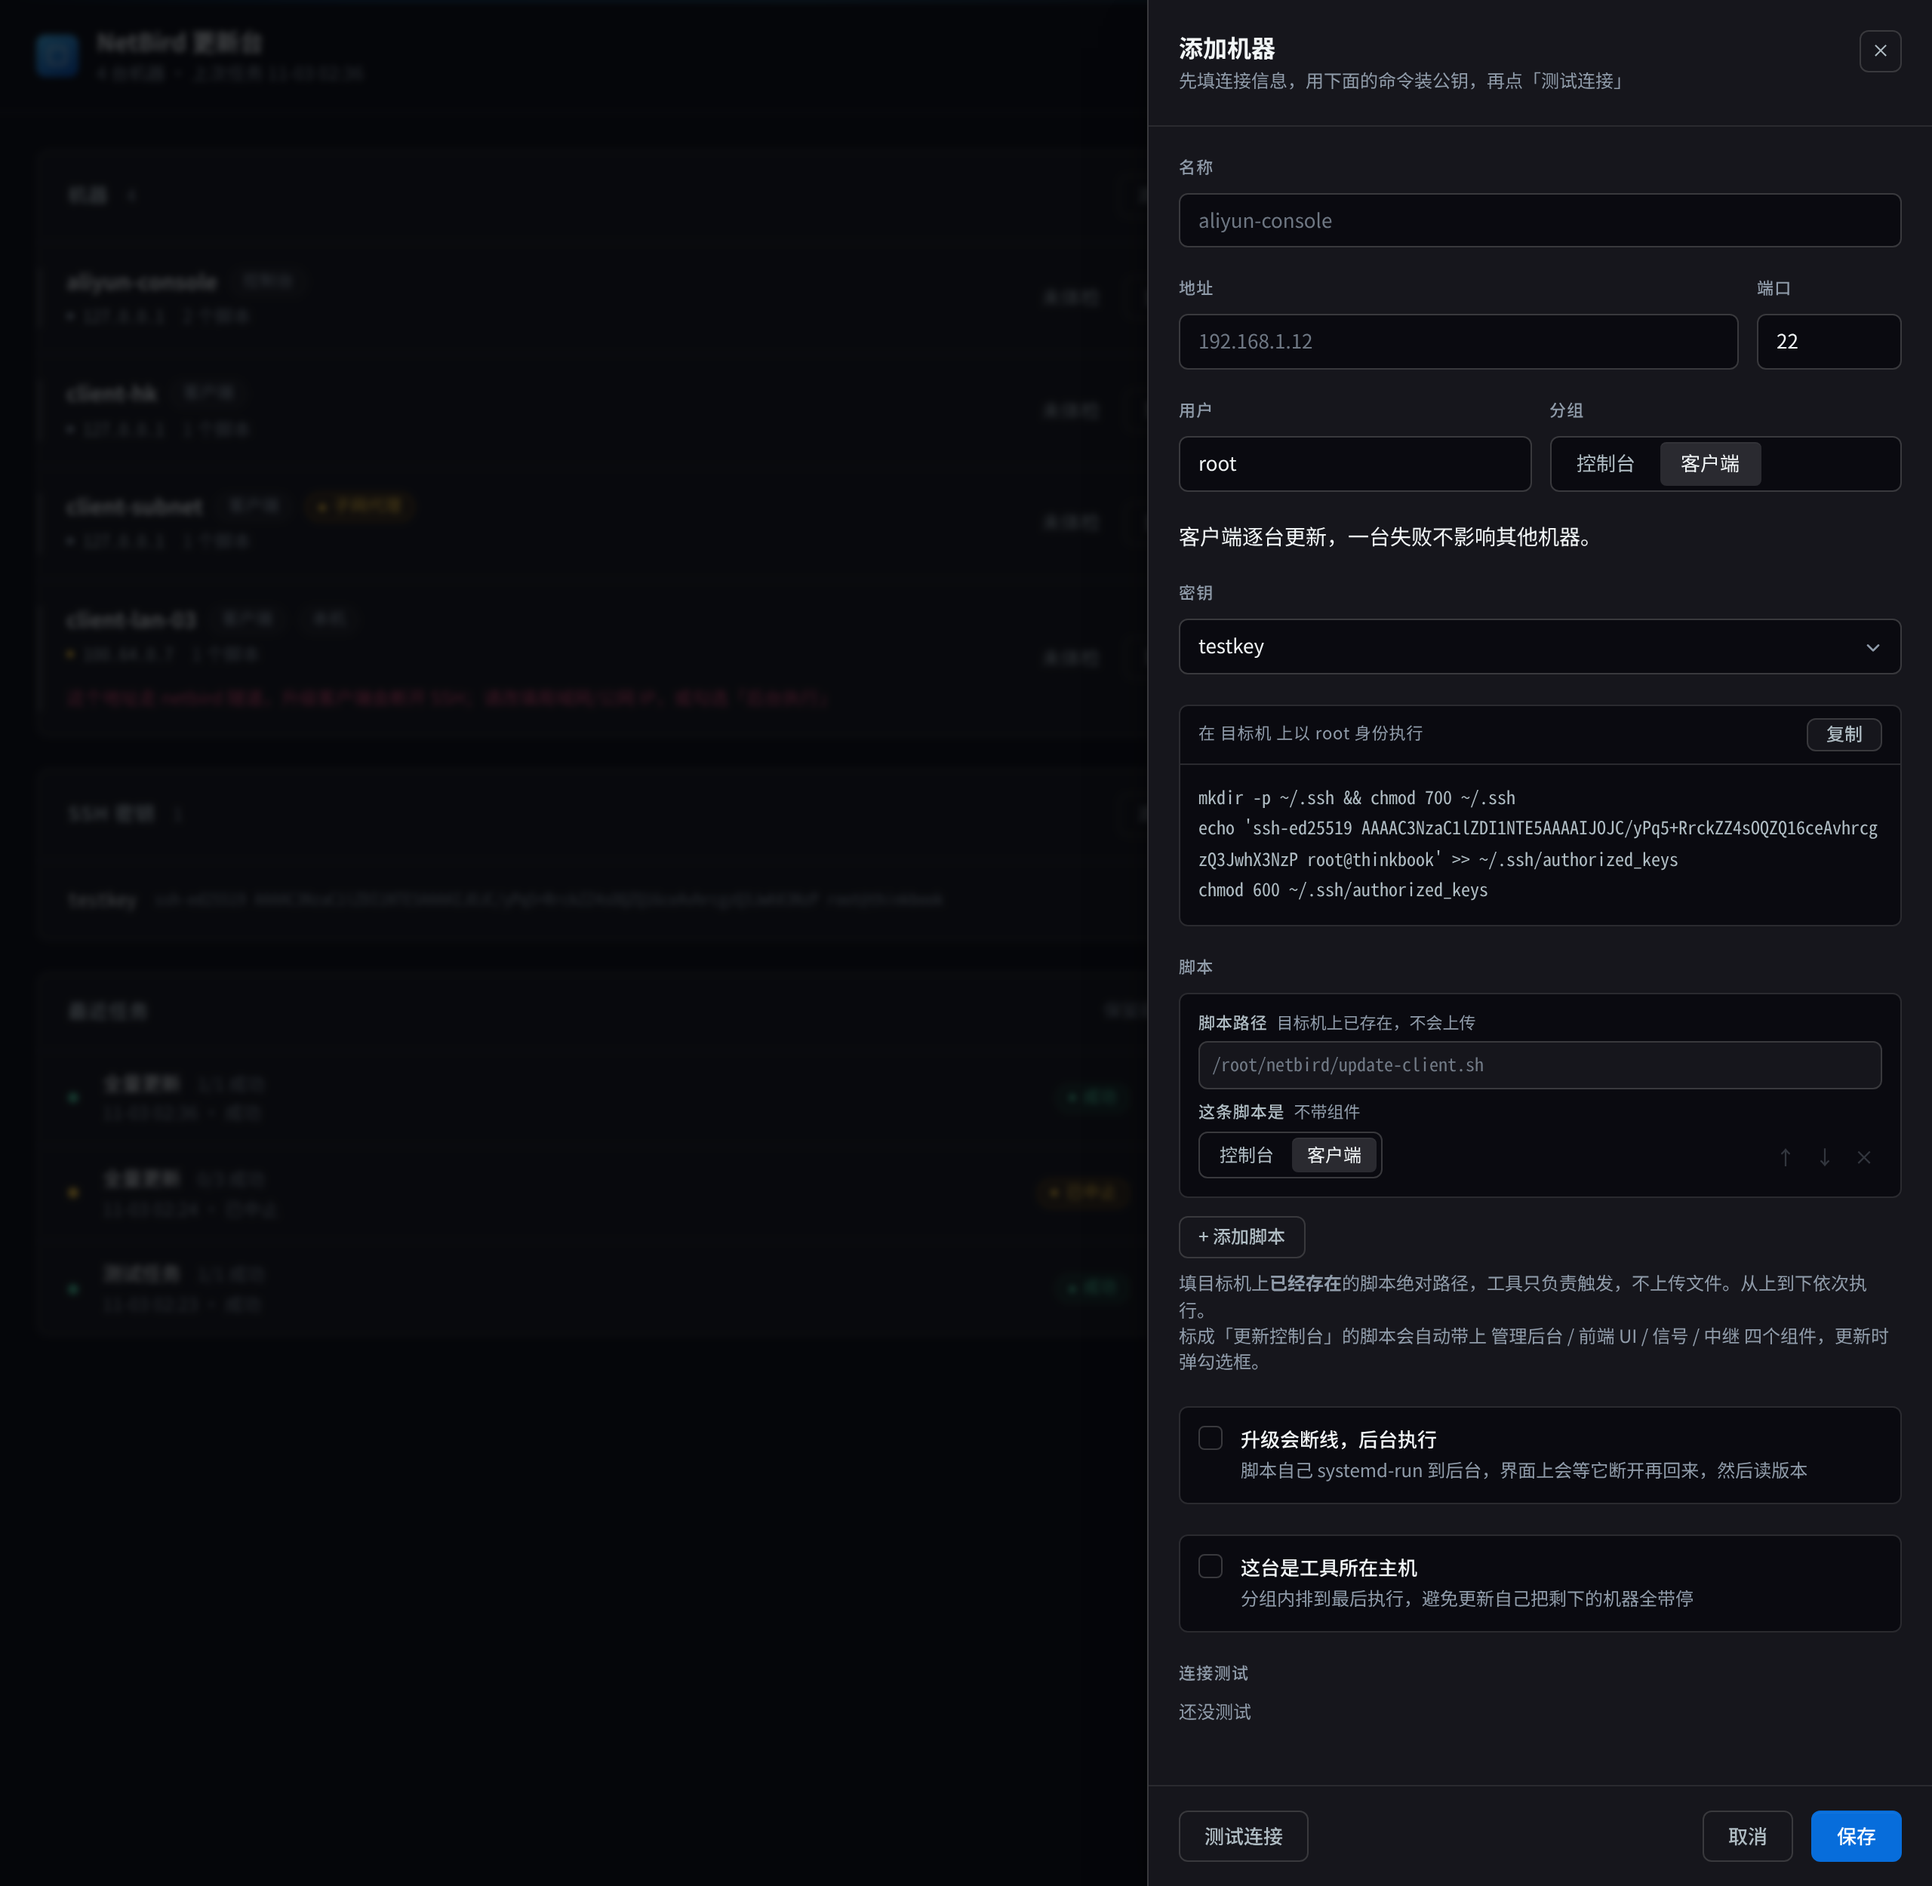
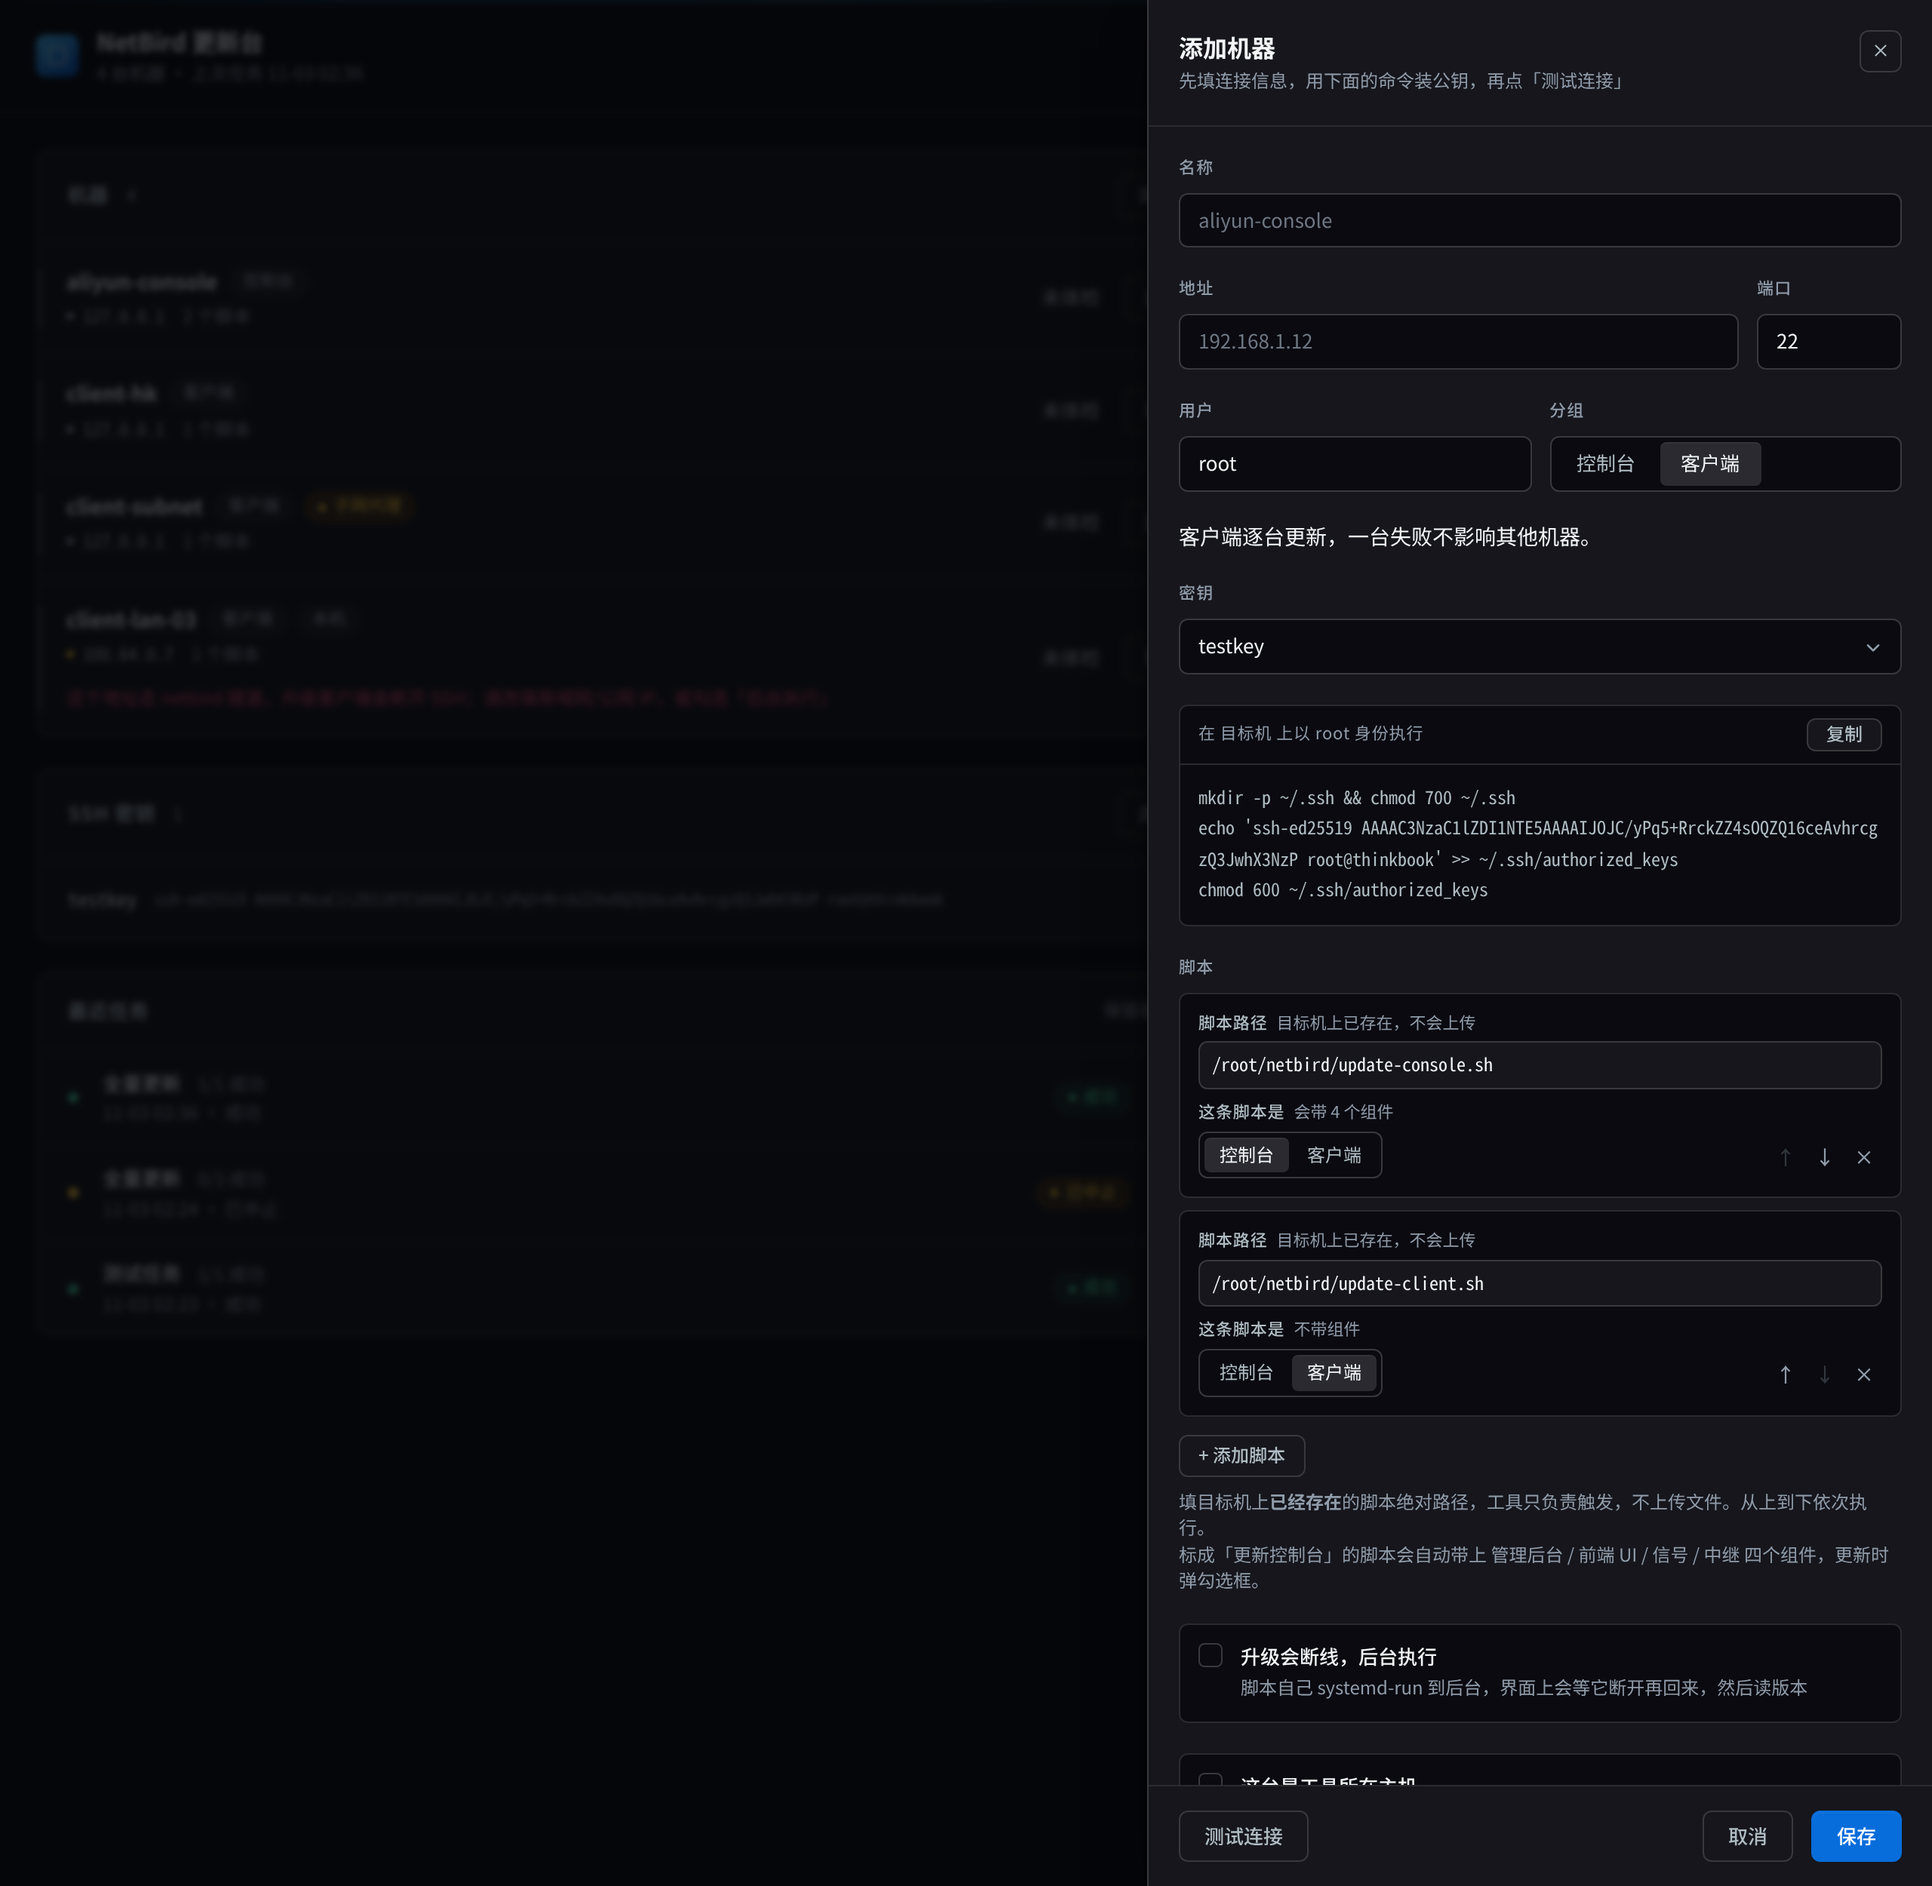
修复脚本行的控制台/客户端可同时选中
rolePicker 把随机 name 写在循环里，导致同一行的两个 radio 分属不同组，
既不互斥也点不掉。改成每行生成一次组名。

顺带修 refreshRowHint 选错了提示节点（盖掉了「脚本路径」那格的说明）。

Changed region(s): [[0.5938, 0.6552, 0.9688, 0.9048], [0.625, 0.5616, 0.7188, 0.624], [0.9062, 0.8736, 0.9375, 0.9048]]

diff --git a/static/app.js b/static/app.js
@@ -435,23 +435,28 @@ const ROLE_LABELS = [ROLE_CONSOLE, ROLE_CLIENT];
 
 // ---------- 脚本行编辑器 ----------
 
-function scriptField(text, hint, input, wide = false) {
+function scriptField(text, hint, input, wide = false, extraClass = "") {
   return el(
     "label",
-    { class: `script-field${wide ? " script-field-wide" : ""}` },
+    { class: `script-field${wide ? " script-field-wide" : ""}${extraClass ? " " + extraClass : ""}` },
     el("span", { class: "script-label" }, text, hint ? el("span", { class: "script-label-hint", text: hint }) : null),
     input,
   );
 }
 
+let roleGroupSeq = 0;
+
 function rolePicker(role) {
+  // 同一行两个单选框必须共用同一个 name 才会互斥；不同行之间又必须不同，
+  // 所以按行生成一次组名，放进循环里就会变成两个独立的组（那就是 bug）。
+  const groupName = `role-group-${++roleGroupSeq}`;
   const box = el("div", { class: "segmented segmented-sm", "data-f": "role" });
   for (const label of ROLE_LABELS) {
     box.append(
       el(
         "label",
         {},
-        el("input", { type: "radio", name: `role-${Math.random().toString(36).slice(2)}`, value: label, checked: label === role }),
+        el("input", { type: "radio", name: groupName, value: label, checked: label === role }),
         el("span", { text: label.replace("更新", "") }),
       ),
     );
@@ -476,7 +481,7 @@ function scriptRow(data = {}) {
       }),
       true,
     ),
-    scriptField("这条脚本是", role === ROLE_CONSOLE ? "会带 4 个组件" : "不带组件", rolePicker(role)),
+    scriptField("这条脚本是", role === ROLE_CONSOLE ? "会带 4 个组件" : "不带组件", rolePicker(role), false, "script-field-role"),
     el(
       "div",
       { class: "script-tools" },
@@ -519,7 +524,8 @@ function collectScripts() {
 }
 
 function refreshRowHint(row) {
-  const hint = row.querySelector(".script-field .script-label-hint");
+  // 只改角色那一格的小字，别把「脚本路径」那一格的说明盖掉
+  const hint = row.querySelector(".script-field-role .script-label-hint");
   if (hint) hint.textContent = rowRole(row) === ROLE_CONSOLE ? "会带 4 个组件" : "不带组件";
 }
 
